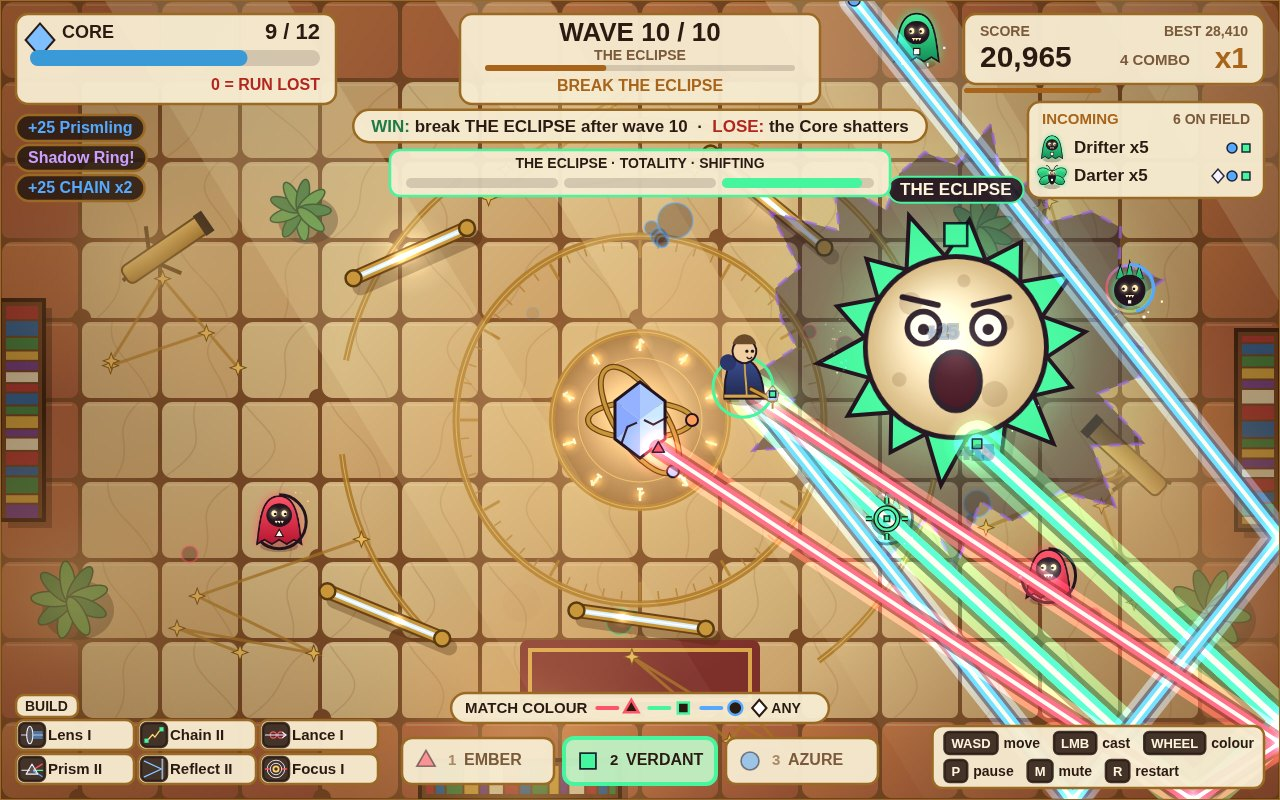
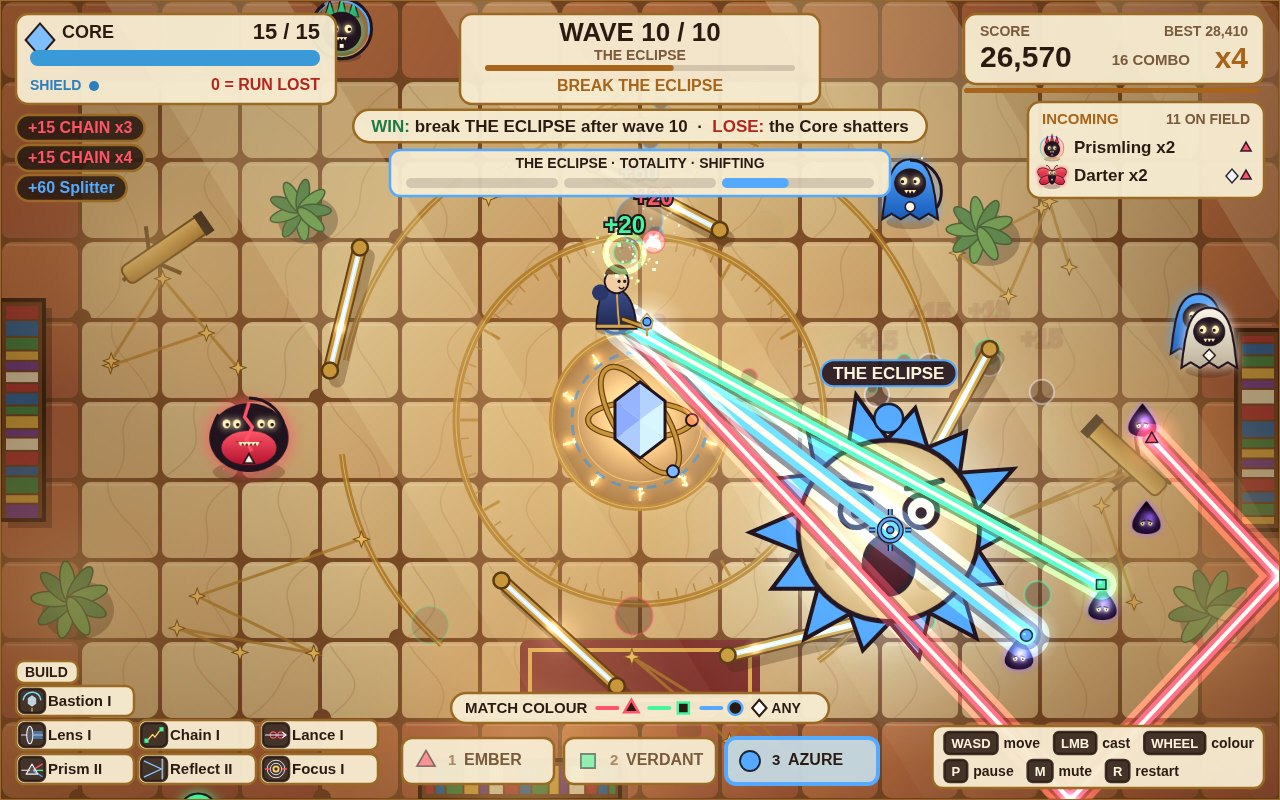
A battle round THE ECLIPSE on the cover; Shadow Ring as an ink ring on the marble; creatures drawn 1.25x larger
- Shadow Ring telegraph: a dark ink ring with inward tendrils and a tightening dashed edge, marble visible inside, crown and face clean
- Creatures drawn 1.25x larger on screen (hitboxes unchanged); Bulwark plates, Prismling timer and health rings follow
- find-cover.mjs: at least 8 visible creatures (faded in, off the boss, away from edges) in two colours near the beams, multiplier x3+,
  Core >= 10/12, no popup over the boss's face, plus the round-7b rules; tallies the rule that rejects each frame
- Replay-only option legion=N adds minions per boss legion for the seeded cover (normal play unchanged); cover uses legion=2, any phase

diff --git a/game/js/render.js b/game/js/render.js
@@ -261,7 +261,8 @@ function drawShade(ctx, shade, time) {
   ctx.globalAlpha = Math.min(1, shade.age * 4);
   ctx.translate(x + (shade.flash > 0 ? Math.sin(time * 90) * 3 : 0), y);
   ctx.scale(1 + squash, 1 - squash);
-  const size = r * (shade.kind === 'bulwark' ? 2.8 : shade.kind === 'umbra' ? 3.6 : 4.2);
+  const size = r * (shade.kind === 'bulwark' ? 3.5 : shade.kind === 'umbra' ? 4.5 : 5.25);
+  const reach = r * 1.25;
   drawCreature(ctx, shade.kind, shade.colour, 0, 0, size, CORE_X < x);
   if (shade.flash > 0) {
     ctx.globalCompositeOperation = 'lighter';
@@ -275,7 +276,7 @@ function drawShade(ctx, shade, time) {
       const from = shade.rot + index * third + 0.1;
       const to = shade.rot + (index + 1) * third - 0.1;
       ctx.beginPath();
-      ctx.arc(x, y, r + 3, from, to);
+      ctx.arc(x, y, reach + 3, from, to);
       if (segment.hp > 0) {
         ctx.strokeStyle = INK;
         ctx.lineWidth = 11;
@@ -284,7 +285,7 @@ function drawShade(ctx, shade, time) {
         ctx.lineWidth = 7;
         ctx.stroke();
         const mid = (from + to) / 2;
-        drawLightGlyph(ctx, segment.colour, x + Math.cos(mid) * (r + 13), y + Math.sin(mid) * (r + 13), 5);
+        drawLightGlyph(ctx, segment.colour, x + Math.cos(mid) * (reach + 13), y + Math.sin(mid) * (reach + 13), 5);
       } else {
         ctx.strokeStyle = 'rgba(40,20,20,0.3)';
         ctx.lineWidth = 2;
@@ -294,14 +295,14 @@ function drawShade(ctx, shade, time) {
   }
   if (shade.kind === 'prismling') {
     ctx.beginPath();
-    ctx.arc(x, y, r + 8, -Math.PI / 2, -Math.PI / 2 + (1 - (shade.age % PRISMLING_PERIOD) / PRISMLING_PERIOD) * TAU);
+    ctx.arc(x, y, reach + 8, -Math.PI / 2, -Math.PI / 2 + (1 - (shade.age % PRISMLING_PERIOD) / PRISMLING_PERIOD) * TAU);
     ctx.strokeStyle = LIGHTS[(shade.colour + 1) % 3].hex;
     ctx.lineWidth = 3;
     ctx.stroke();
   }
   if (shade.hp < shade.maxHp && shade.r >= 14) {
     ctx.beginPath();
-    ctx.arc(x, y, r + (shade.shell ? 18 : 10), -Math.PI / 2, -Math.PI / 2 + TAU * Math.max(0, shade.hp / shade.maxHp));
+    ctx.arc(x, y, reach + (shade.shell ? 18 : 10), -Math.PI / 2, -Math.PI / 2 + TAU * Math.max(0, shade.hp / shade.maxHp));
     ctx.strokeStyle = INK;
     ctx.lineWidth = 3;
     ctx.stroke();
@@ -368,23 +369,32 @@ function drawEclipseLabel(ctx, boss) {
   ctx.fillText('THE ECLIPSE', boss.x, y + 1);
 }
 
-/** The Shadow Ring telegraph: ink creeps across the marble round THE ECLIPSE, its edge tightening until the ring is released. */
+/** The Shadow Ring telegraph: a ring of ink on the marble, tendrils reaching inward, its dashed edge tightening onto THE ECLIPSE. */
 function drawShadowInk(ctx, boss, time) {
   const k = 1 - boss.charging / CHARGE_TIME;
+  const outer = boss.r * (3.4 - 1.3 * k);
+  const inner = outer - boss.r * 0.3;
   ctx.save();
   ctx.beginPath();
-  for (let i = 0; i < 40; i += 1) {
-    const angle = (i / 40) * TAU;
-    const reach = boss.r * (1.5 + 1.1 * k) * (1 + 0.16 * Math.sin(i * 2.7 + time * 3) + 0.08 * Math.sin(i * 5.3));
-    ctx.lineTo(boss.x + Math.cos(angle) * reach, boss.y + Math.sin(angle) * reach);
-  }
-  ctx.closePath();
-  ctx.fillStyle = `rgba(30,10,36,${(0.3 + 0.3 * k).toFixed(2)})`;
+  ctx.arc(boss.x, boss.y, outer, 0, TAU);
+  ctx.arc(boss.x, boss.y, inner, 0, TAU, true);
+  ctx.fillStyle = `rgba(34,14,40,${(0.55 + 0.3 * k).toFixed(2)})`;
   ctx.fill();
-  ctx.strokeStyle = `rgba(150,90,220,${(0.5 + 0.4 * k).toFixed(2)})`;
-  ctx.lineWidth = 3;
-  ctx.setLineDash([12, 9]);
-  ctx.lineDashOffset = time * 40;
+  ctx.beginPath();
+  for (let i = 0; i < 14; i += 1) {
+    const a = (i / 14) * TAU + time * 0.4;
+    const reach = inner - boss.r * (0.25 + 0.2 * (0.5 + 0.5 * Math.sin(time * 3 + i * 1.9)));
+    ctx.moveTo(boss.x + Math.cos(a - 0.09) * inner, boss.y + Math.sin(a - 0.09) * inner);
+    ctx.lineTo(boss.x + Math.cos(a) * reach, boss.y + Math.sin(a) * reach);
+    ctx.lineTo(boss.x + Math.cos(a + 0.09) * inner, boss.y + Math.sin(a + 0.09) * inner);
+  }
+  ctx.fill();
+  ctx.beginPath();
+  ctx.arc(boss.x, boss.y, outer + 4, 0, TAU);
+  ctx.strokeStyle = `rgba(150,90,220,${(0.6 + 0.4 * k).toFixed(2)})`;
+  ctx.lineWidth = 4;
+  ctx.setLineDash([16, 10]);
+  ctx.lineDashOffset = -time * 50;
   ctx.stroke();
   ctx.restore();
 }

diff --git a/game/js/shots.js b/game/js/shots.js
@@ -14,9 +14,10 @@ const MAX_SECONDS = 60 * 12;
 /** The best score on record in every scene, so the four screenshots tell one story (the winning run beats it). */
 const RECORDED_BEST = 28410;
 
-/** Plays a run with the autopilot until `stop(world, step)`, taking upgrades between waves; null if the run ends first. */
-export function playUntil(seed, stop, pilot = createPilot(0)) {
+/** Plays a run with the autopilot until `stop(world, step)`, taking upgrades between waves; `legionBonus` adds boss minions (cover replay only). */
+export function playUntil(seed, stop, pilot = createPilot(0), legionBonus = 0) {
   const world = createWorld(seed);
+  world.legionBonus = legionBonus;
   for (let step = 0; step < MAX_SECONDS / STEP; step += 1) {
     if (world.state === 'cleared' && world.stateTime > 1.3) {
       if (stop(world, step)) return world;
@@ -54,7 +55,7 @@ export function runShotScene(game, kind, seed, hooks) {
   let world = null;
   if (kind === 'play') {
     const step = Number(params.get('step'));
-    world = playUntil(seed, (w, s) => s === step, createPilot(Number(params.get('reaction') ?? 0), 0, params.get('focus') === '1'));
+    world = playUntil(seed, (w, s) => s === step, createPilot(Number(params.get('reaction') ?? 0), 0, params.get('focus') === '1'), Number(params.get('legion') ?? 0));
     if (world) {
       game.world = world;
       game.colour = world.warden.colour;

diff --git a/game/js/boss.js b/game/js/boss.js
@@ -97,10 +97,10 @@ export const CHARGE_TIME = 1.5;
 /** A legion of minions from the arena edges, spread round the field, their colours rotating through all three lights. */
 function summonLegion(world, kinds) {
   const offset = Math.floor(simRandom() * 3);
-  kinds.forEach((kind, i) => {
+  for (let i = 0; i < kinds.length + (world.legionBonus ?? 0); i += 1) {
     const point = edgeSpawnPoint(simRandom);
-    world.shades.push(createShade(kind, (offset + i) % 3, point.x, point.y, world.speedScale, false, world.toughness));
-  });
+    world.shades.push(createShade(kinds[i % kinds.length], (offset + i) % 3, point.x, point.y, world.speedScale, false, world.toughness));
+  }
 }
 
 /** The Shadow Ring: Umbra orbs fly out from the boss in every direction; any light cuts them, and those reaching the Core crack it. */

diff --git a/README.md b/README.md
@@ -54,7 +54,7 @@ The game is plain static files in `game/`: ES modules, no build step and no thir
 | `game/js/autopilot.js` | a built-in pilot for the screenshot scenes and playtests |
 | `game/js/shots.js` | screenshot scenes (`?shot=title\|play\|upgrade\|results\|defeat`, `play` replaying a seed to a given step) |
 
-Outside `game/`: `main.ts` checks the screenshots and `game/` against the contest limits, copies them to the output folder and writes `dossier.json` (`vendor/makefun-game.ts` is make.fun's library, unchanged). `serve.ts` is a small local server. `shots.json` lists the screenshot scenes. `tools/capture-shots.mjs` captures them in headless Chrome, `tools/playtest.mjs` plays the game through start, play, pause, upgrade, win, lose and restart, `tools/simulate.mjs` plays whole runs in Node to check the balance, `tools/bake-art.mjs` bakes the sprite atlas and floor from `tools/art/paint-art.js`, and `tools/find-cover.mjs` searches hundreds of autopilot runs in Node for the cover frame and writes its seed and step into `shots.json` (the game's `?shot=play` replays exactly that step).
+Outside `game/`: `main.ts` checks the screenshots and `game/` against the contest limits, copies them to the output folder and writes `dossier.json` (`vendor/makefun-game.ts` is make.fun's library, unchanged). `serve.ts` is a small local server. `shots.json` lists the screenshot scenes. `tools/capture-shots.mjs` captures them in headless Chrome, `tools/playtest.mjs` plays the game through start, play, pause, upgrade, win, lose and restart, `tools/simulate.mjs` plays whole runs in Node to check the balance, `tools/bake-art.mjs` bakes the sprite atlas and floor from `tools/art/paint-art.js`, and `tools/find-cover.mjs` searches hundreds of autopilot runs in Node for the cover frame and writes its seed and step into `shots.json` (the game's `?shot=play` replays exactly that step; for the cover, `&legion=2` adds two minions per boss legion in that replay only).
 
 ## Run it
 
